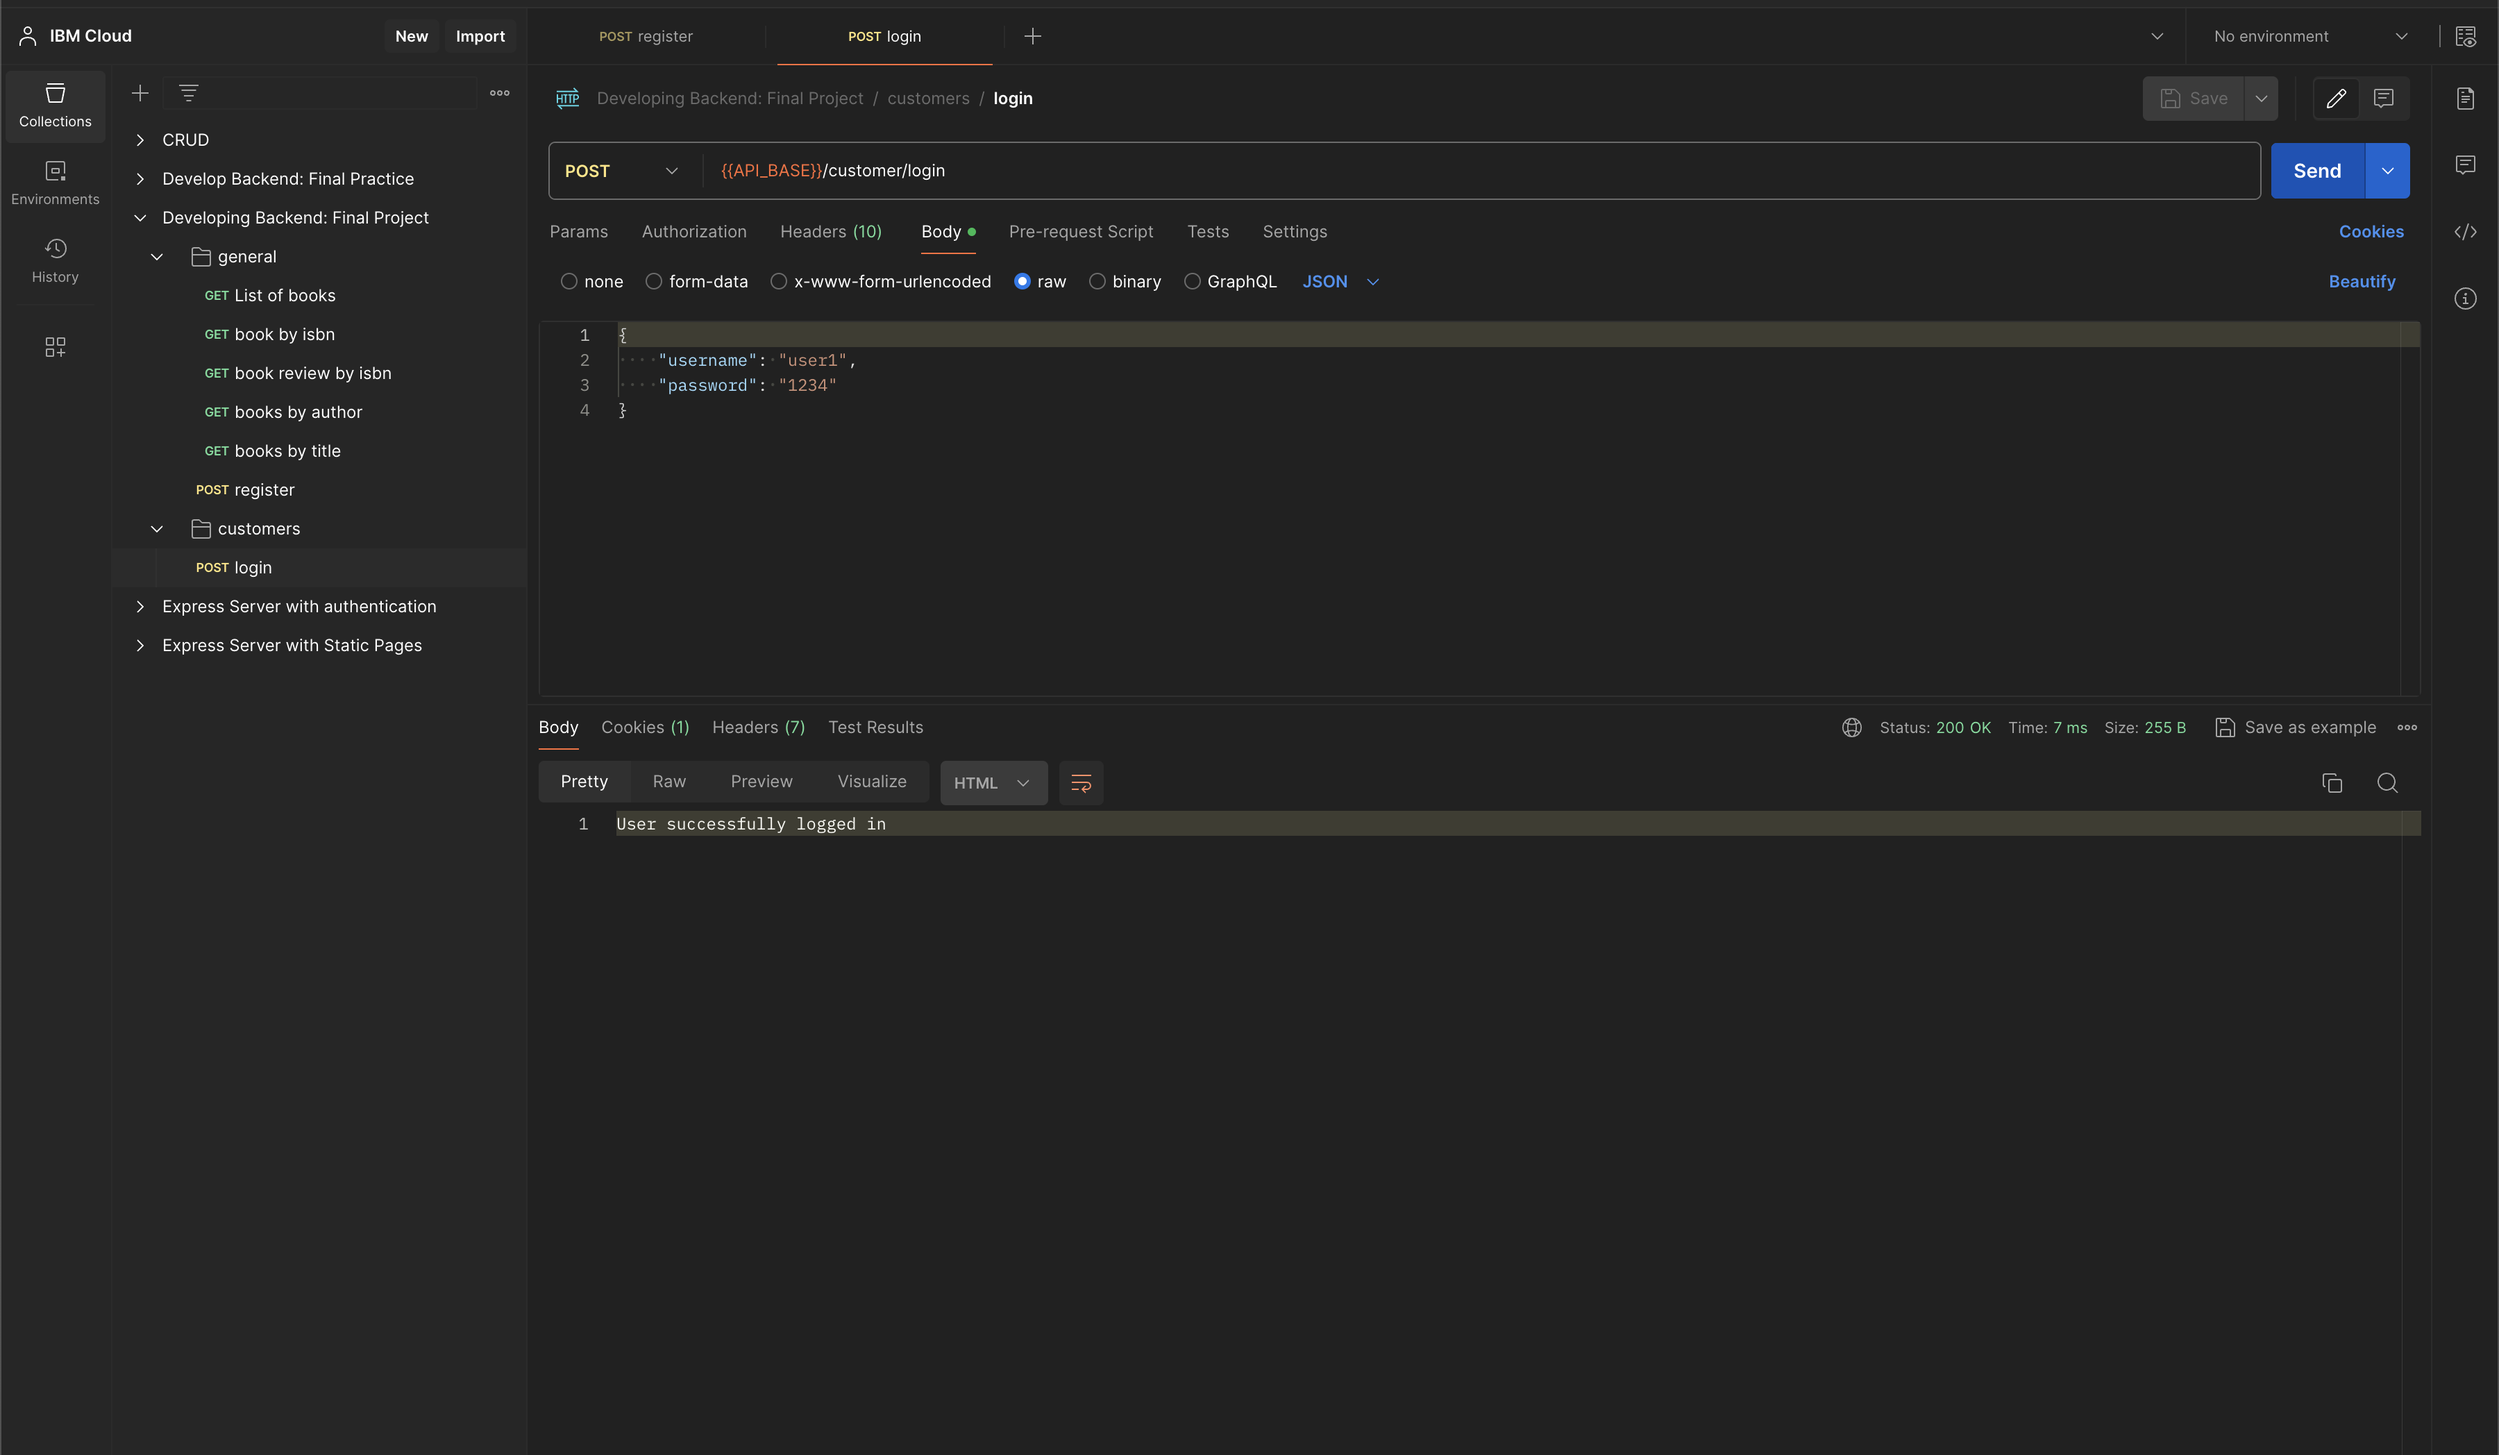
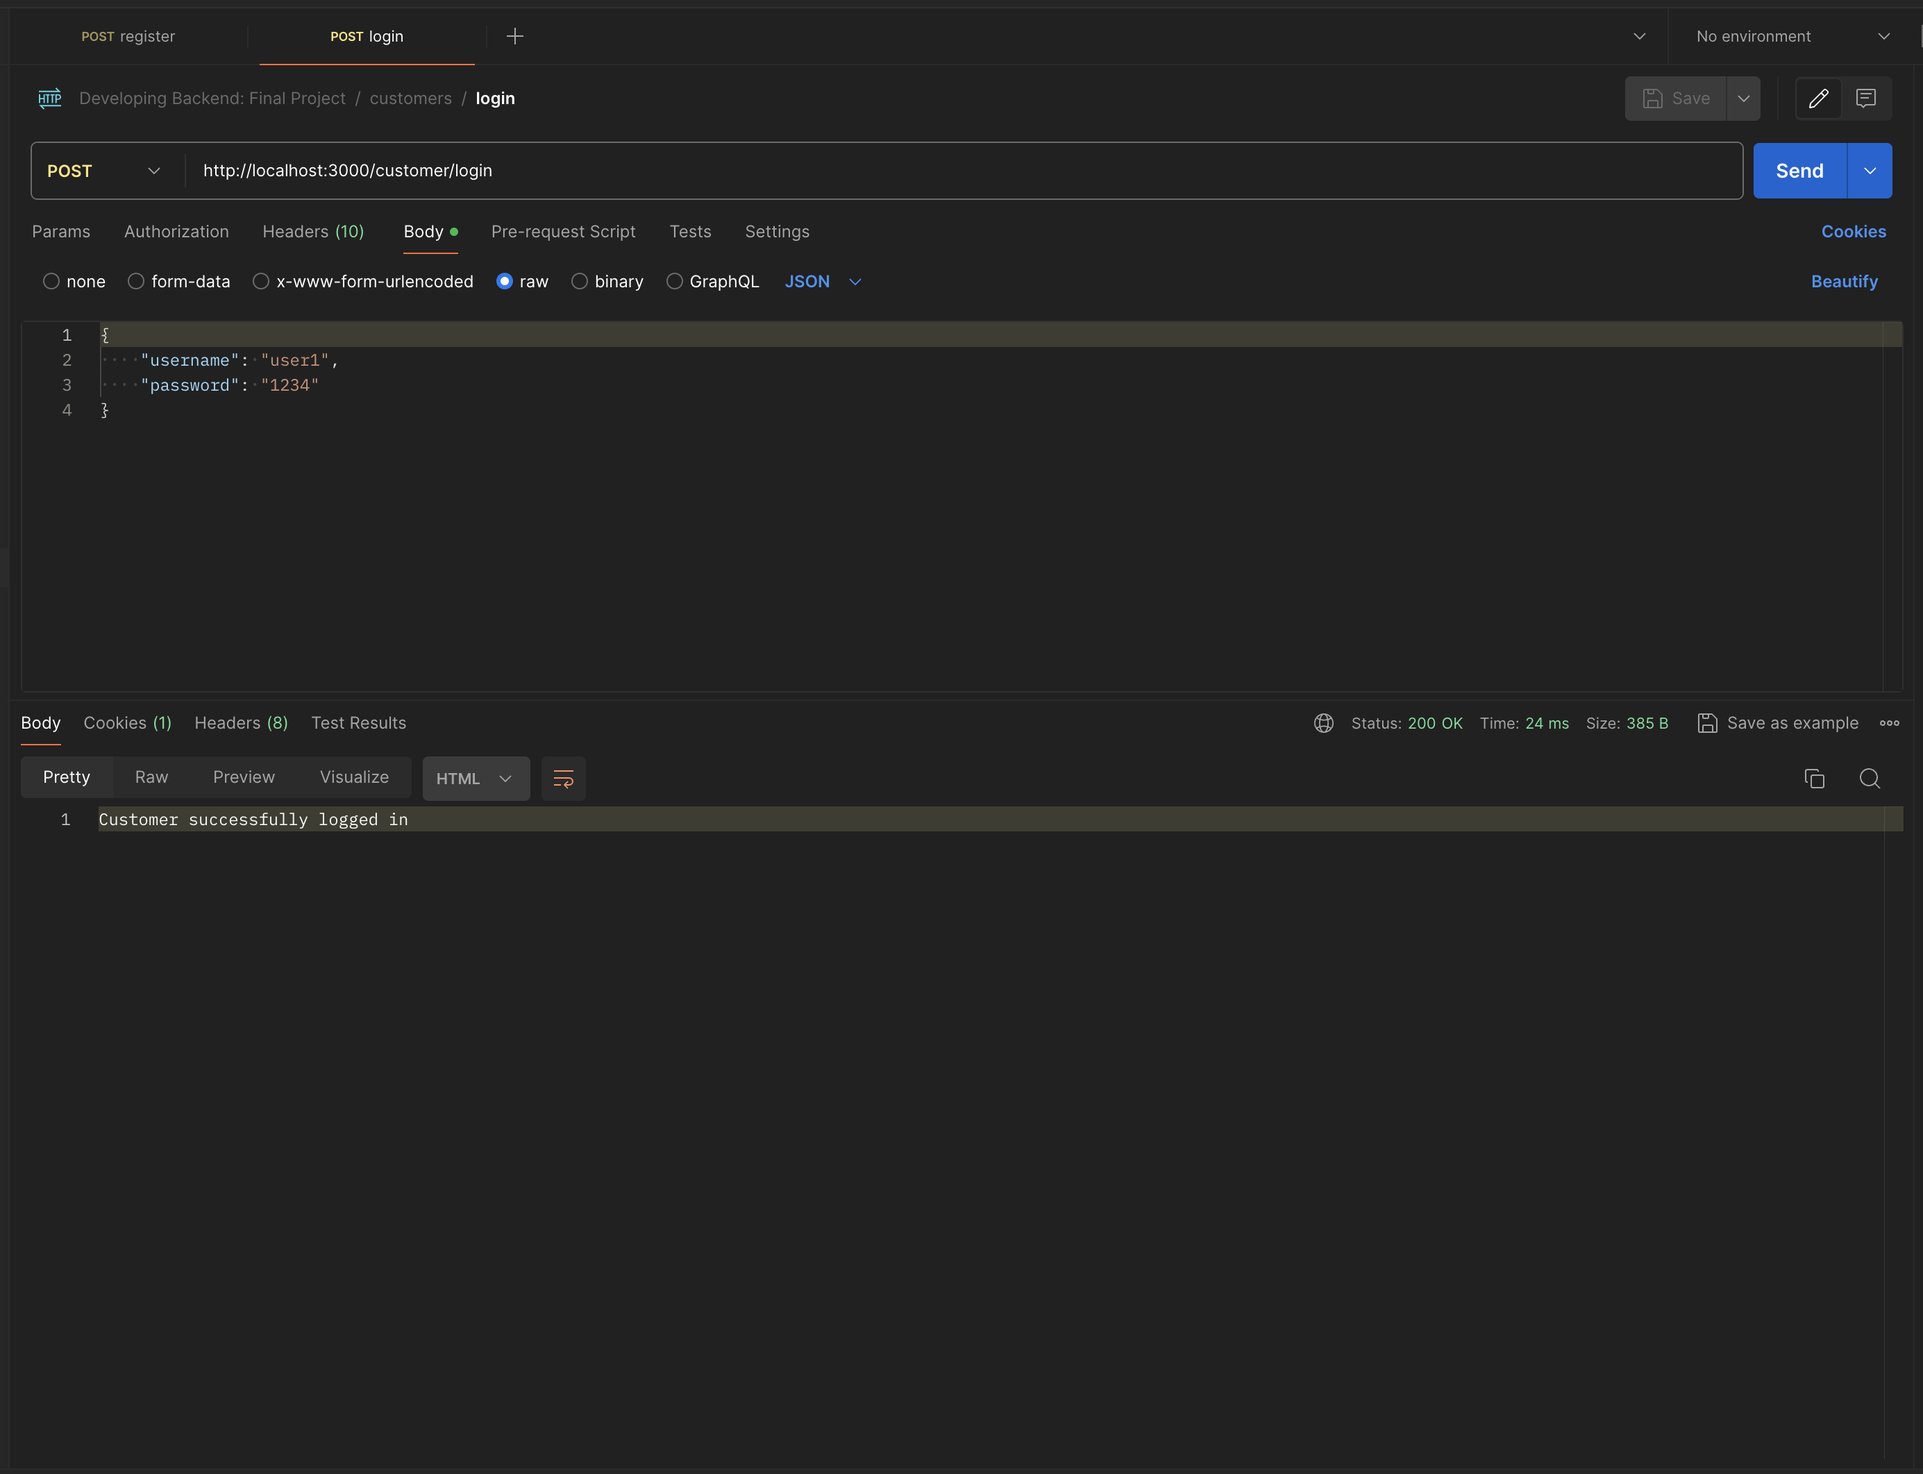
simplify task 7 screenshot

diff --git a/final_project/router/auth_users.js b/final_project/router/auth_users.js
@@ -40,7 +40,7 @@ registered_users.post("/login", (request, response) => {
 
   // @ts-ignore
   request.session["authorization"] = { accessToken }
-  return response.status(200).send("User successfully logged in");
+  return response.status(200).send("Customer successfully logged in");
 });
 
 // Add a book review
